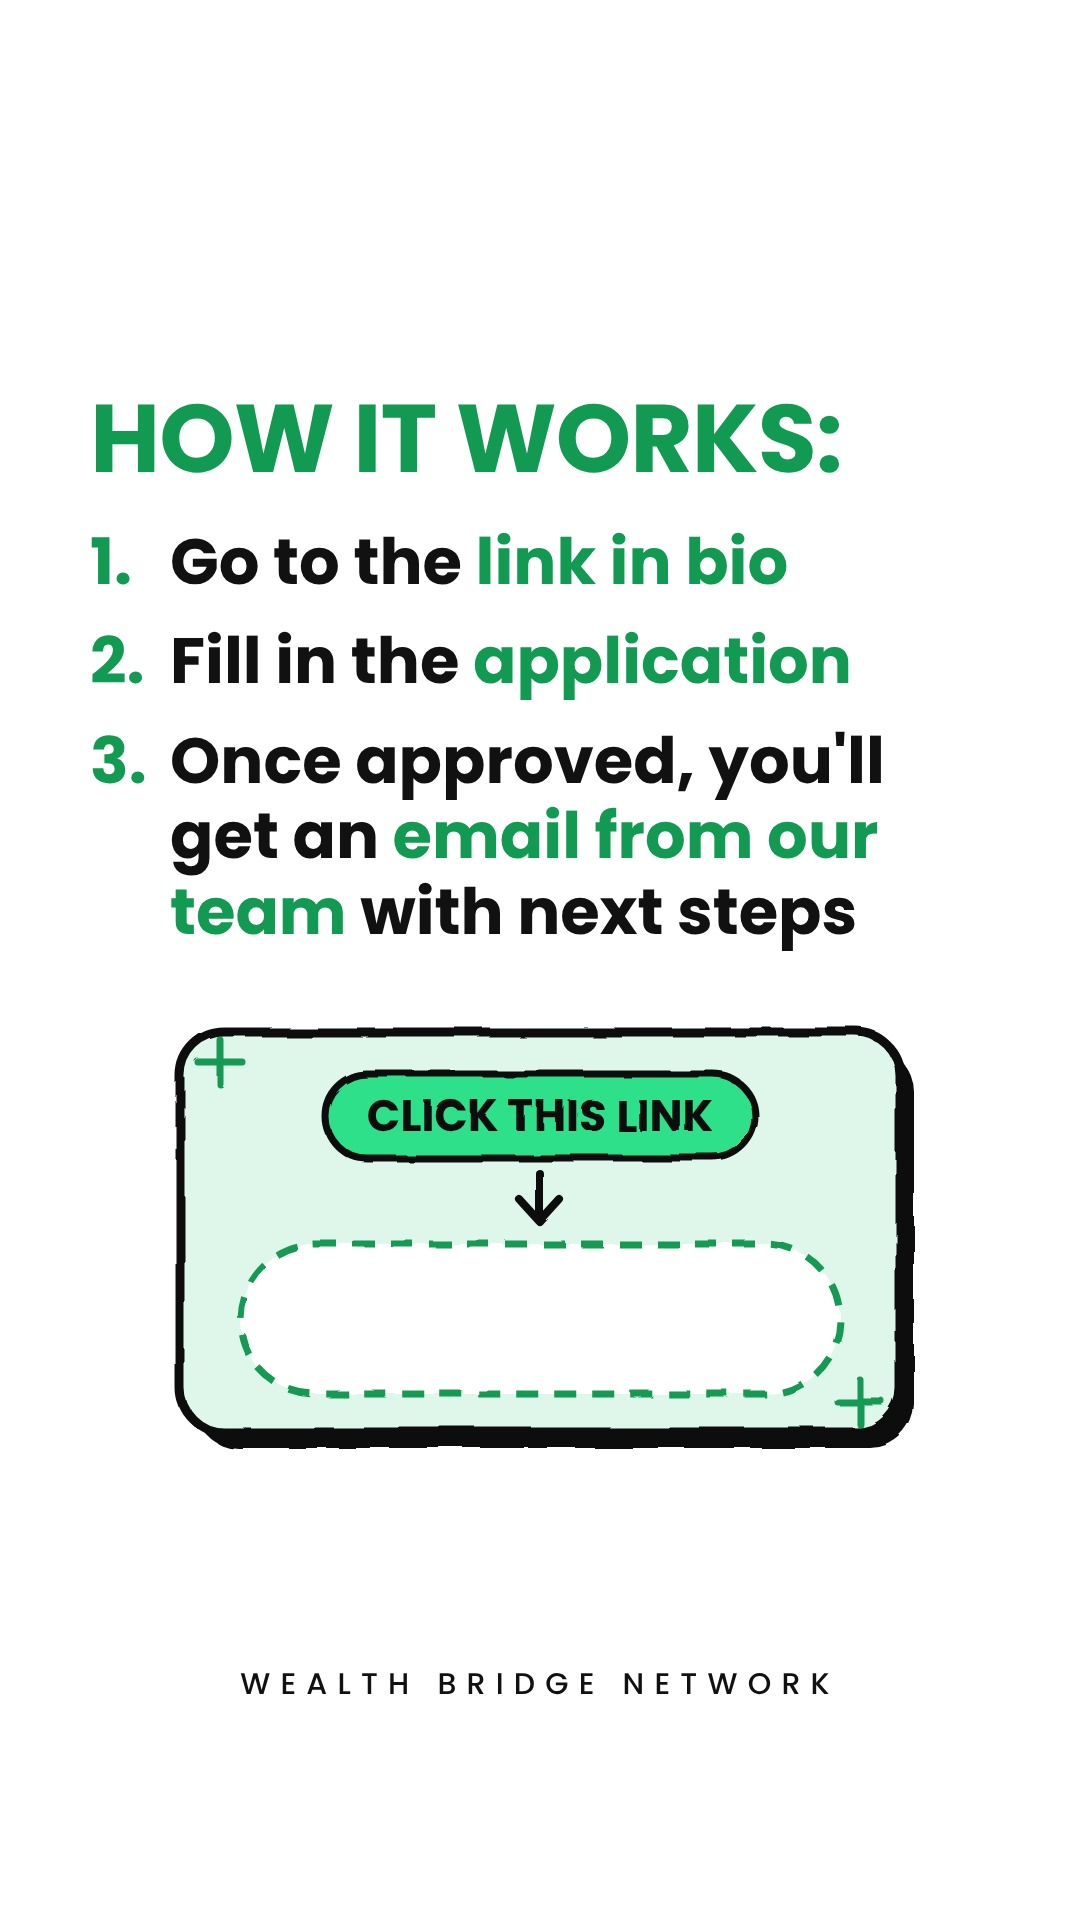
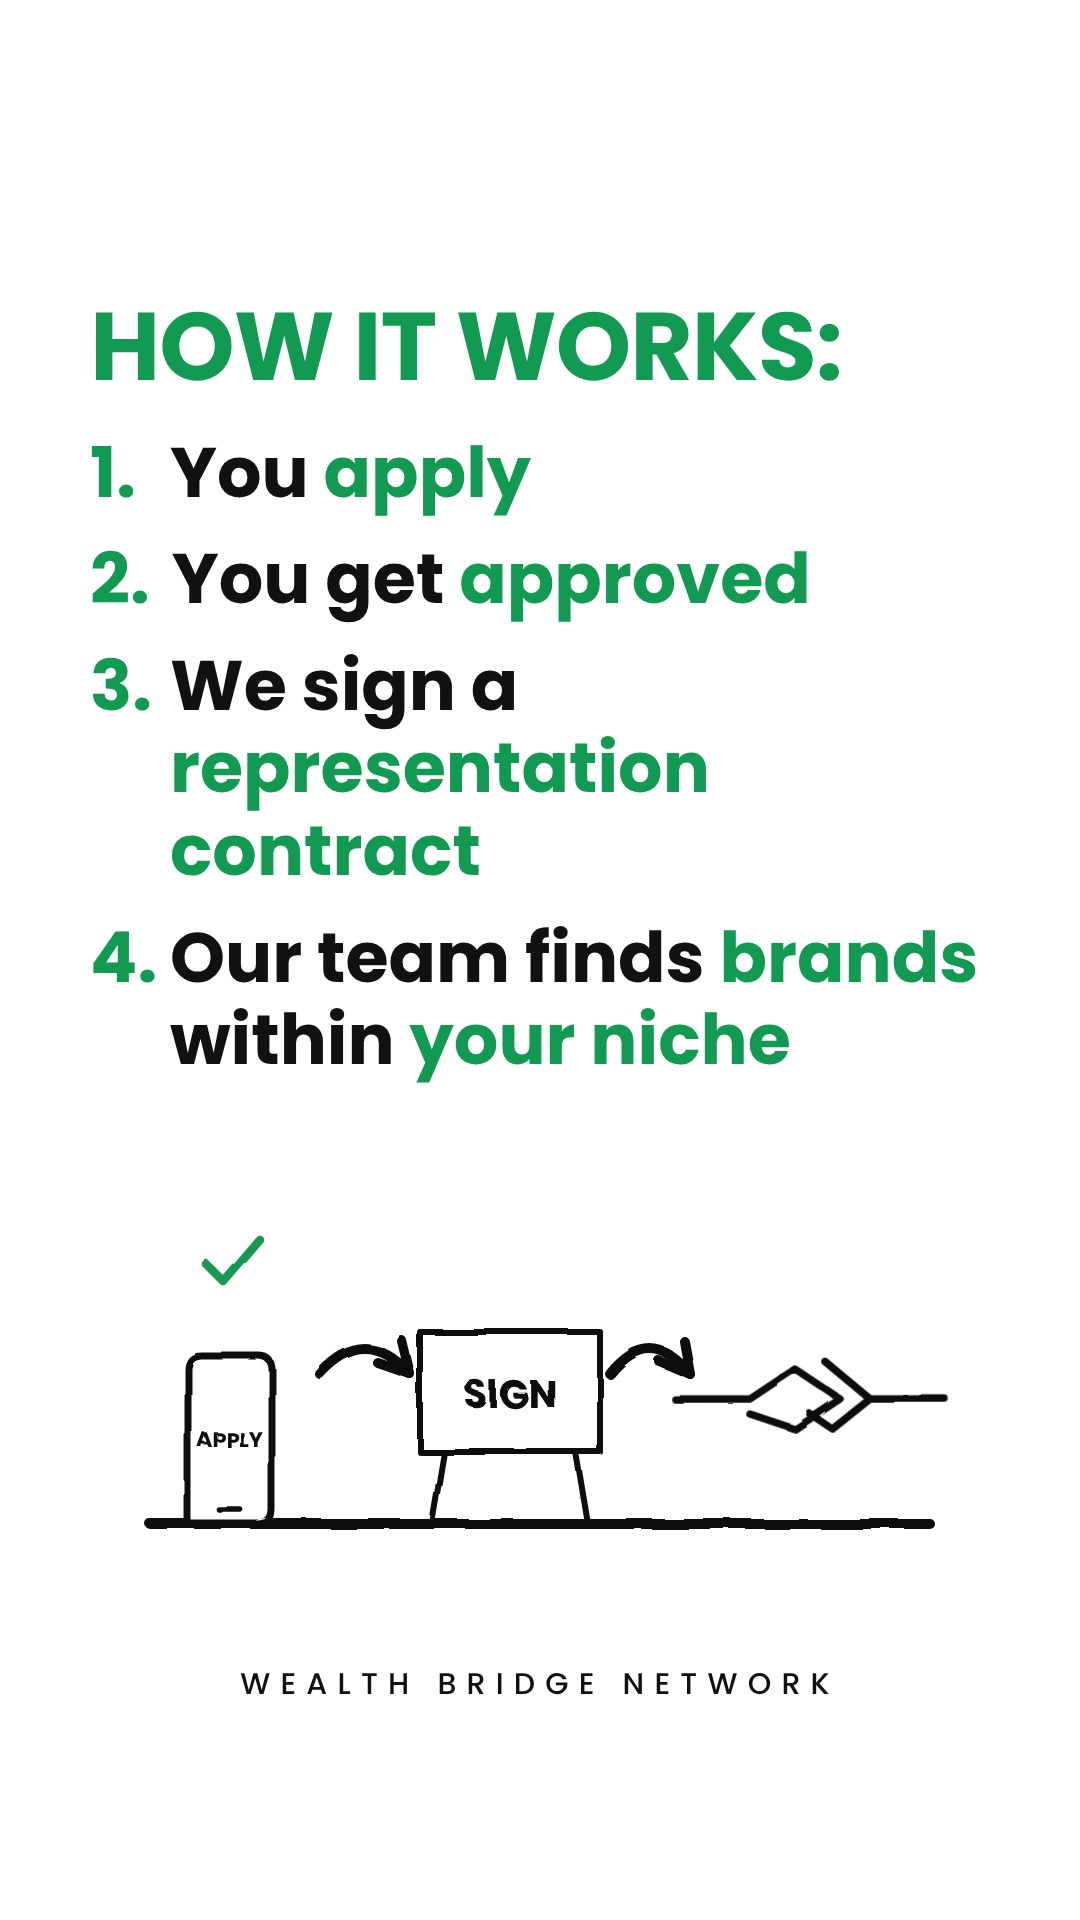
Highlights: creators now 4 slides (how it works: apply, approved, contract, brands in your niche; then next steps)
Claude-Session: https://claude.ai/code/session_01XWHiAuJ5usg3NqhhkBZ2QK

Changed region(s): [[0.0611, 0.1562, 0.9167, 0.8125]]

diff --git a/content/highlights.py b/content/highlights.py
@@ -53,6 +53,10 @@ dict(id="hl-creators", title="Creators", slides=[
  dict(head="Who we\n*represent:*", hd=96,
       scene=pills(CATS) + _t(450, 8 * 112 + 60, "+ many more", 46, 800, GREEN), vh=8 * 112 + 90, ah=1100),
  dict(head="How it *works:*", hd=96,
+      items=["You *apply*", "You get *approved*", "We sign a *representation contract*", "Our team finds *brands* within *your niche*"], **{"is": 70},
+      scene=ground(60, 840, 380) + phone(140, 380, 0.7, "APPLY") + check(140, 120, 0.6, True) + arrow(230, 230, 320, 230, -50)
+      + board(420, 380, 0.6, "SIGN") + arrow(520, 230, 600, 230, -50) + handshake_hands(720, 300, 0.75), vh=400),
+ dict(head="What are the\n*next steps?*", hd=96,
       items=["Go to the *link in bio*", "Fill in the *application*", "Once approved, you'll get an *email from our team* with next steps"], **{"is": 64},
       scene=link_card(450, 20), vh=440),
 ]),
